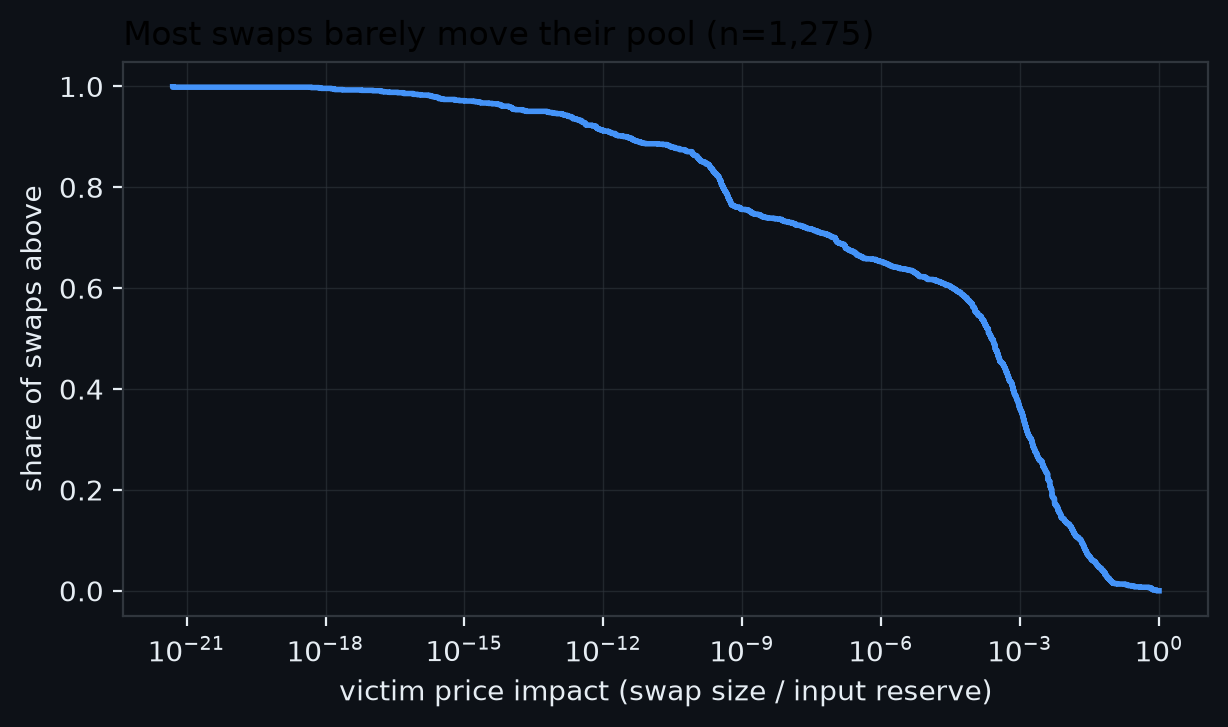
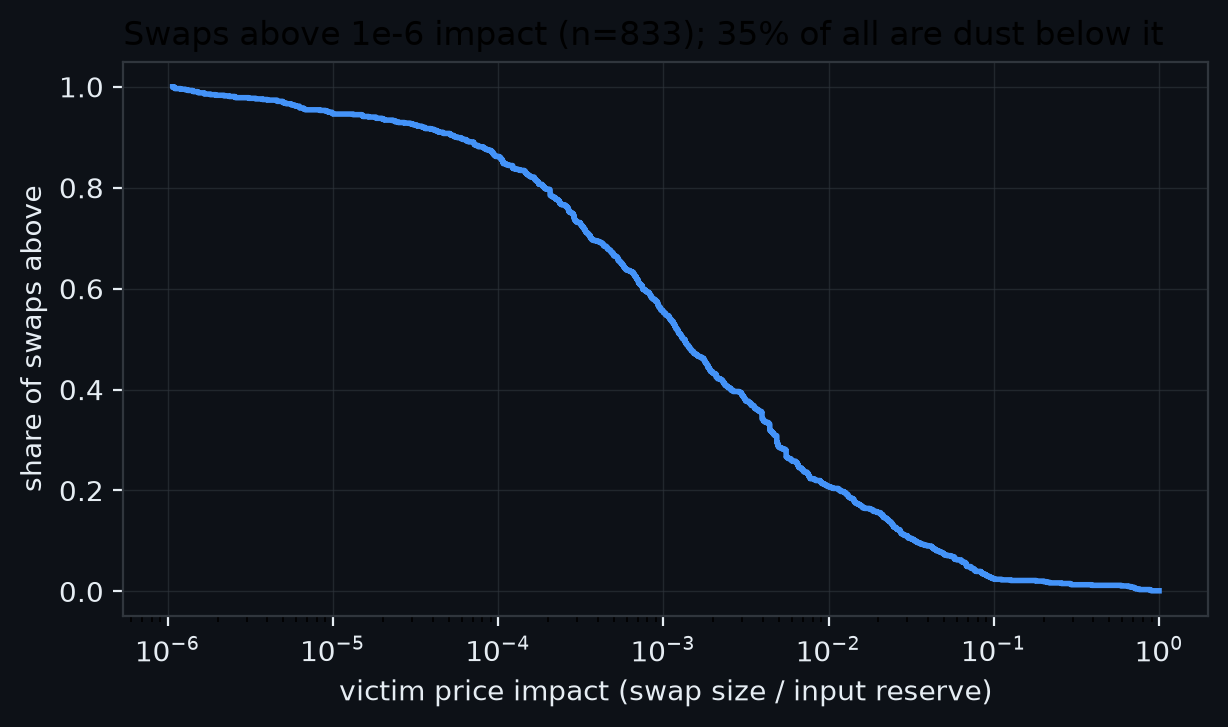
fix(figures): exclude sub-1e-6 dust swaps from price-impact curve
Changed 3 file(s) [docs]

  - docs/research/figures/readme/impact-dark.png
  - docs/research/figures/readme/impact-light.png
  - scripts/figures/measured.py

3 files changed, 4 insertions(+), 2 deletions(-)

diff --git a/scripts/figures/measured.py b/scripts/figures/measured.py
@@ -42,13 +42,15 @@ def price_impact(th: dict, name: str) -> None:
     rows = con.execute("select amount_in / x_pre from included_swaps "
                        "where amount_in is not null and x_pre > 0").fetchall()
     xs = sorted(r[0] for r in rows if 0 < r[0] < 1)
+    dust = sum(1 for x in xs if x < 1e-6) / len(xs)
+    xs = [x for x in xs if x >= 1e-6]
     n = len(xs)
     fig, ax = _frame(th)
-    ax.step(xs, [1 - (i + 1) / n for i in range(n)], color=th["a"], lw=2)
+    ax.step(xs, [1 - i / n for i in range(n)], color=th["a"], lw=2)
     ax.set_xscale("log")
     ax.set_xlabel("victim price impact (swap size / input reserve)")
     ax.set_ylabel("share of swaps above")
-    ax.set_title(f"Most swaps barely move their pool (n={n:,})", loc="left")
+    ax.set_title(f"Swaps above 1e-6 impact (n={n:,}); {dust:.0%} of all are dust below it", loc="left")
     fig.savefig(OUT / f"impact-{name}.png", bbox_inches="tight", dpi=200)
     plt.close(fig)
 
